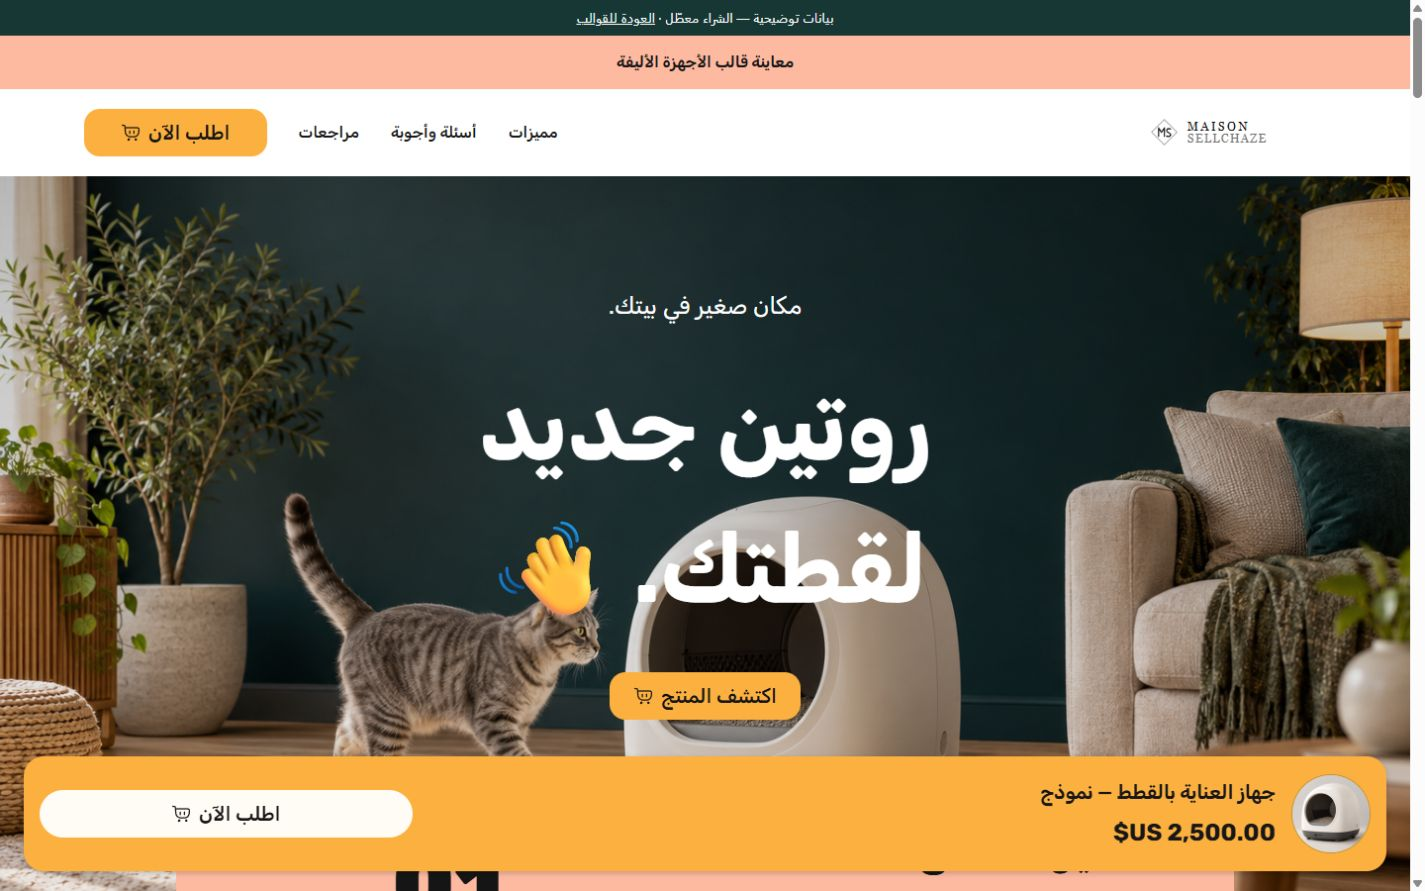
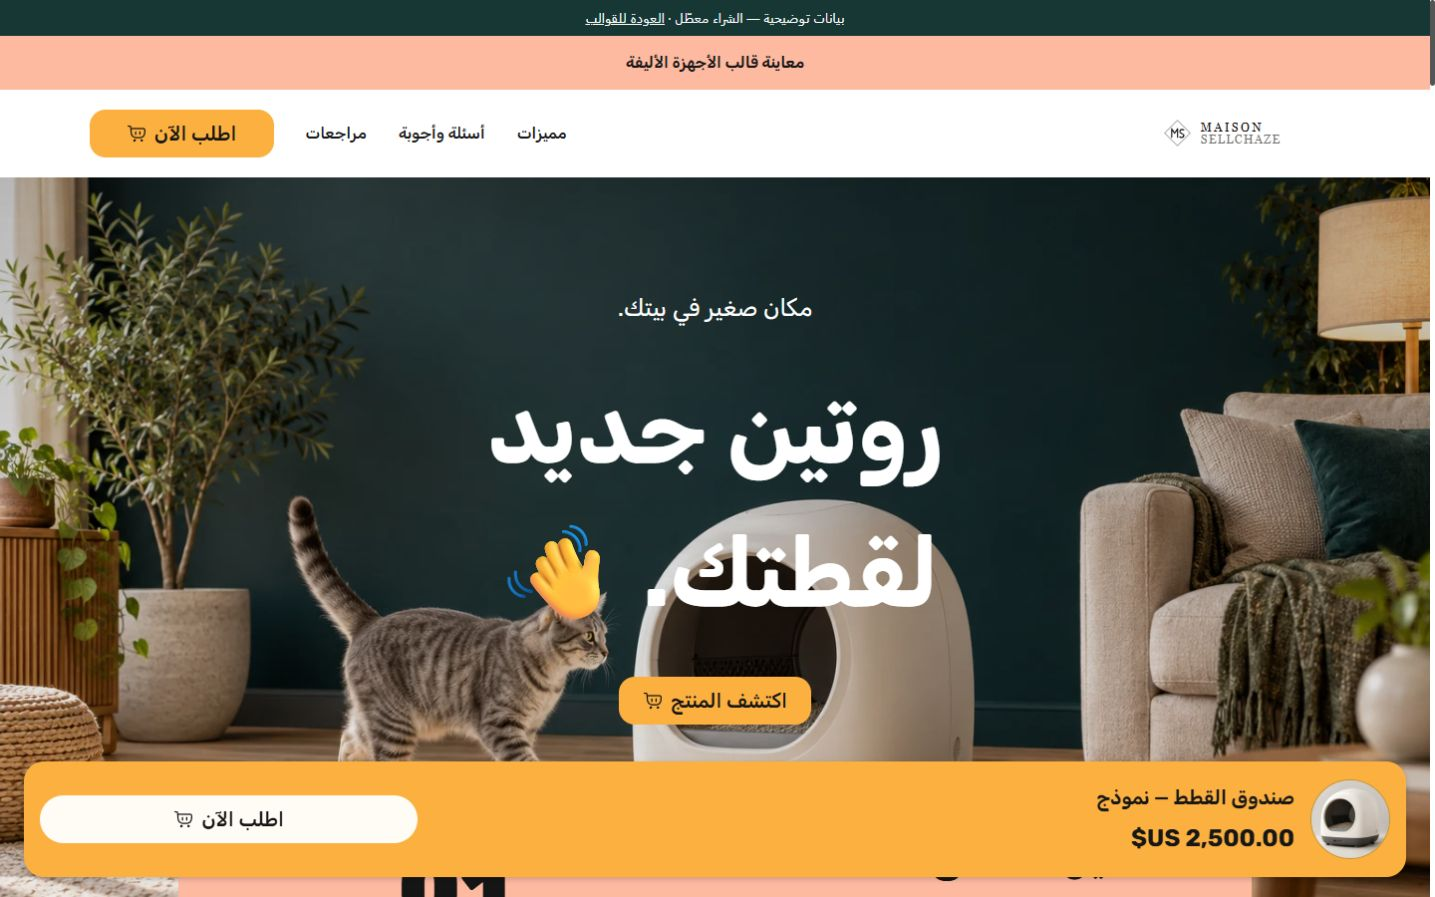
Match Litter Robot mobile navigation and optimize campaign paints

diff --git a/src/apps/storefront/funnels/litter-robot.css b/src/apps/storefront/funnels/litter-robot.css
@@ -1,5 +1,7 @@
 @font-face{font-family:Rubik;src:url('/fonts/rubik/Rubik-Variable.ttf') format('truetype');font-weight:300 900;font-display:swap}
 @font-face{font-family:'DM Sans';src:url('/fonts/dmsans/dmsans-variable.woff2') format('woff2');font-weight:100 1000;font-display:swap}
+html:has(.lr-root)::-webkit-scrollbar{width:5px}
+html:has(.lr-root)::-webkit-scrollbar-thumb{background:#555;border-radius:8px}
 .lr-root{--lr-orange:#fbb040;--color-primary:#fbb040;--color-on-primary:#161616;--color-text:#171717;--color-surface:#fff;--color-border:#d8d8d8;--bg:#fff;--text:#171717;--surface:#fff;--surface-2:#f7f7f7;--border:#d8d8d8;background:#fff;color:#171717;font:16px/1.5 'DM Sans',system-ui,sans-serif;padding-bottom:144px;overflow:clip}
 .lr-root *{box-sizing:border-box;min-width:0}
 .lr-root[dir=rtl]{--font-arabic:Rubik,sans-serif;font-family:Rubik,sans-serif}
@@ -52,7 +54,12 @@
 .lr-technical{display:grid;grid-template-columns:1fr 1fr;gap:48px;align-items:center}.lr-technical>img{width:100%;aspect-ratio:1.25;object-fit:cover;border-radius:32px}.lr-technical h2{margin-bottom:32px}.lr-technical-features{display:grid;grid-template-columns:repeat(3,minmax(0,1fr));gap:24px}.lr-technical-features article{text-align:center}.lr-technical-features img{width:64px;height:64px;margin:0 auto 16px;object-fit:cover;border-radius:50%}.lr-technical-features h3{font-size:16px;line-height:1.4}.lr-technical-features p{margin-top:8px;font-size:13px}
 .lr-editorial{position:relative;isolation:isolate;min-height:600px;border-radius:32px;overflow:hidden;background:#f0ede7;display:flex;align-items:flex-end;text-align:center;padding:48px;color:white}.lr-editorial>img{position:absolute;inset:0;width:100%;height:100%;object-fit:cover;z-index:-2}.lr-editorial::after{content:'';position:absolute;inset:0;z-index:-1;background:linear-gradient(transparent 20%,#000b)}.lr-editorial>div{max-width:800px;margin-inline:auto}.lr-editorial h2{font-size:28px;font-weight:600}.lr-editorial p{font-size:20px;margin-top:16px;line-height:1.5}.lr-editorial .lr-button{margin-top:24px}
 .lr-section[data-litter-section='litter-editorial']{padding-block:12px}
-.lr-feature-rows{display:flex;flex-direction:column;gap:0}.lr-feature-rows article{display:flex;align-items:center;background:#f4f4f4;min-height:108px;border-bottom:1px solid #fff}.lr-feature-rows article:nth-child(even){flex-direction:row-reverse;background:#fff}.lr-feature-rows img{width:180px;align-self:stretch;object-fit:cover}.lr-feature-rows article>div{flex:1;padding:24px;text-align:center}.lr-feature-rows h3{font-size:32px;font-weight:600}.lr-feature-rows p{margin-top:8px}
+.lr-feature-rows{display:grid;grid-template-columns:1fr 2fr;gap:0;align-items:center}
+.lr-feature-rows-image{width:60%;aspect-ratio:251.2/195;object-fit:contain;justify-self:center}
+.lr-feature-rows>div{display:flex;flex-direction:column;justify-content:space-around;gap:16px;min-height:325px;padding:16px 24px 24px;text-align:end}
+.lr-feature-rows article{display:flex;flex-direction:column;gap:8px}
+.lr-feature-rows h3{font-size:32px;line-height:40px;font-weight:500}
+.lr-feature-rows p{font:400 16px/28px Rubik,sans-serif}
 .lr-quote{background:#e2e2e2;text-align:center;padding:48px 24px}.lr-quote .lr-wrap{max-width:1100px}.lr-quote-images{display:flex;justify-content:center;gap:16px;margin-bottom:32px}.lr-quote-images img{width:96px;height:96px;border-radius:50%;object-fit:cover}.lr-quote blockquote{font:500 20px/1.7 Rubik,sans-serif}.lr-quote figcaption{margin-top:24px;font-size:14px}
 .lr-section:has(>.lr-quote),.lr-section:has(>.lr-marquee){padding-block:0}
 .lr-marquee{padding-block:24px;overflow:hidden;background:#fff}.lr-marquee>div{display:flex;width:max-content;animation:lr-marquee 35s linear infinite}.lr-marquee p{display:flex;flex-shrink:0;gap:48px;padding-inline:24px;font:600 24px/1.5 Rubik,sans-serif;white-space:nowrap}.lr-marquee span::after{content:'✦';margin-inline-start:48px}
@@ -61,7 +68,18 @@
 .lr-faq{max-width:1000px;padding-block:48px}.lr-faq h2{text-align:center;font:500 40px/1.2 Rubik,sans-serif;margin-bottom:48px}.lr-faq .lr-questions article{border:1px solid #d7d7d7;margin-bottom:16px;border-radius:12px;overflow:hidden}.lr-faq .lr-questions button{padding:20px 24px}.lr-faq .lr-questions article>div p{padding:0 24px 24px}
 .lr-footer{background:var(--lr-orange);padding:64px 24px;text-align:center}.lr-footer .lr-wrap{display:flex;flex-direction:column;align-items:center;gap:32px}.lr-footer nav{display:flex;justify-content:center;flex-wrap:wrap;gap:24px}.lr-footer address{display:flex;flex-direction:column;gap:8px;font-style:normal}.lr-footer address:empty{display:none}.lr-footer a:hover{text-decoration:underline}.lr-footer p{font-size:14px}.lr-footer .sf-payment-marks{justify-content:center}
 .lr-dock{position:fixed;z-index:45;bottom:20px;inset-inline:24px;min-height:116px;background:var(--lr-orange);color:#171717;display:flex;align-items:center;justify-content:space-between;gap:24px;padding:16px;border-radius:20px;box-shadow:0 2px 6px #0003;font-family:Rubik,sans-serif}.lr-dock>div{display:flex;align-items:center;gap:16px}.lr-dock img{width:80px;height:80px;object-fit:cover;border:1px solid #bd943b;border-radius:50%}.lr-dock>div>div{display:flex;flex-direction:column;gap:8px}.lr-dock strong{font-size:20px;font-weight:600}.lr-dock span{display:flex;align-items:center;gap:24px;font-size:24px;font-weight:700;flex-wrap:wrap}.lr-dock del{font-size:18px;font-weight:400}.lr-dock>.lr-button{background:#fffbf5;min-width:28%;border-radius:48px}
-.lr-menu-dialog{padding:0;border:0;background:transparent;color:#171717;max-height:100dvh;height:100dvh;width:250px;max-width:calc(100vw - 32px);margin:0;margin-inline-start:auto;position:fixed;inset:0;font:500 16px/1.5 Rubik,sans-serif}.lr-menu-dialog::backdrop{background:#0007}.lr-menu-dialog>div{height:100%;background:#fff;padding:24px;overflow-y:auto}.lr-menu-dialog button{display:grid;place-items:center;margin-inline-start:auto;width:40px;height:40px;border:0;background:none;color:inherit;cursor:pointer}.lr-menu-dialog button svg{width:24px;height:24px}.lr-menu-dialog nav{display:flex;flex-direction:column;gap:24px;margin-top:24px}.lr-menu-dialog nav a:not(.lr-button){color:inherit;text-decoration:none}.lr-menu-dialog .lr-button{min-width:0;width:100%;font-size:16px;padding:12px}.lr-menu-dialog[dir=rtl]{margin-inline-start:0;margin-inline-end:auto}
+.lr-menu-dialog{padding:0;border:0;background:transparent;color:#000;max-height:100dvh;height:100dvh;width:auto;max-width:none;margin:0;position:fixed;inset:0;font:500 16px/24px Rubik,sans-serif;overflow:visible;transition:display .3s allow-discrete,overlay .3s allow-discrete}
+.lr-menu-panel{position:absolute;inset:0 0 0 auto;width:250px;max-width:calc(100vw - 32px);transform:translateX(100%);transition:transform .3s ease-in-out}
+.lr-menu-dialog[open] .lr-menu-panel{transform:none}
+@starting-style{.lr-menu-dialog[open] .lr-menu-panel{transform:translateX(100%)}}
+.lr-menu-dialog::backdrop{background:transparent}
+.lr-menu-panel{height:100%;background:rgba(255,133,91,.98);padding:86px 0;overflow-y:auto}
+.lr-menu-dialog button{position:absolute;top:20px;left:20px;display:grid;place-items:center;width:40px;height:40px;padding:8px;border:0;border-radius:50%;background:#ff5252;color:white;cursor:pointer}
+.lr-menu-dialog button svg{width:24px;height:24px}
+.lr-menu-dialog nav{display:flex;flex-direction:column;align-items:center;gap:27px;margin:0}
+.lr-menu-dialog nav>a{padding:10px 4px 8px;color:inherit;text-decoration:none}
+.lr-menu-dialog nav>span{display:block;text-align:center;width:100%;margin-top:-3px}
+.lr-menu-dialog nav .lr-button{min-width:176px;max-width:calc(100% - 32px);min-height:48px;width:max-content;font-size:20px;line-height:24px;padding:12px 10px}
 .lr-demo-note{position:relative;z-index:46;background:#173734;color:#fff;padding:8px 16px;text-align:center;font:13px/1.5 system-ui,sans-serif}.lr-demo-note a{text-decoration:underline}
 .lr-motion [data-lr-reveal]{opacity:0;transform:translateY(28px);transition:opacity .7s ease,transform .7s ease}.lr-motion [data-lr-reveal].lr-visible{opacity:1;transform:none}
 @media(min-width:1600px){.lr-wrap{max-width:1536px}.lr-hero{height:calc(85svh - 0px);min-height:765px}}
@@ -71,3 +89,7 @@
 .lr-purchase{padding-top:0}
 .lr-root .sf-funnel-checkout{font-family:'DM Sans',sans-serif}
 .lr-root .sf-funnel-checkout :is(label,input,select,textarea,button){font-family:inherit}
+@media(max-width:991px){.lr-feature-rows{grid-template-columns:1fr}.lr-feature-rows>div{min-height:0;gap:0}.lr-feature-rows article,.lr-feature-rows article:nth-child(even){display:flex;flex-direction:column;padding:0;background:none;min-height:0}.lr-feature-rows .lr-feature-rows-image{width:60%;height:auto;aspect-ratio:251.2/195;object-fit:contain;align-self:center}.lr-feature-rows h3{font-size:25px;line-height:31.25px}.lr-feature-rows p{line-height:28px}}
+.lr-dock>div{flex:1}.lr-dock>.lr-button{flex-shrink:0}.lr-dock strong{white-space:nowrap;overflow:hidden;text-overflow:ellipsis}
+@media(max-width:991px){.lr-dock{inset-inline:2.5%;bottom:6px;min-height:80px;gap:0;padding:12px}.lr-dock>div{gap:8px;flex:0 1 auto;min-width:min-content}.lr-dock>div>div{min-width:auto}.lr-dock img{display:block;width:55px;height:55px;padding:5px;flex-shrink:1}.lr-dock strong{font-size:14px;line-height:16.8px;white-space:normal}.lr-dock span{font-size:14px;line-height:16.8px;white-space:nowrap}.lr-dock>.lr-button{flex:0 1 auto;min-width:0;max-width:50%;min-height:44px;font-size:20px;line-height:24px;padding:10px 15px}}
+@media(prefers-reduced-motion:reduce){.lr-menu-dialog,.lr-menu-panel{transition:none}}

diff --git a/src/apps/storefront/funnels/LitterRobotFunnel.tsx b/src/apps/storefront/funnels/LitterRobotFunnel.tsx
@@ -90,7 +90,7 @@ export function LitterComposition({ sections, productSlug, locale: pageLocale, p
     element.querySelectorAll('[data-lr-reveal]').forEach(node => observer.observe(node));
     return () => { observer.disconnect(); element.classList.remove('lr-motion'); };
   }, [sections, customizer.active]);
-  const order = (label?: unknown): ReactElement => <a className="lr-button" href="#funnel-checkout">{text(label) || (ar ? 'اطلب الآن' : 'Order now')}<HugeiconsIcon icon={ShoppingCart01Icon} size={20} aria-hidden="true" /></a>;
+  const order = (label?: unknown, close = false): ReactElement => <a className="lr-button" href="#funnel-checkout" onClick={close ? closeMenu : undefined}>{text(label) || (ar ? 'اطلب الآن' : 'Order now')}<HugeiconsIcon icon={ShoppingCart01Icon} size={20} aria-hidden="true" /></a>;
   const navigationLinks = (close = false): ReactNode => <>{[['feature-cards', ar ? 'مميزات' : 'Features'], ['faq', ar ? 'أسئلة وأجوبة' : 'Questions & answers'], ['reviews', ar ? 'مراجعات' : 'Reviews']].filter(([type]) => first(type!) >= 0).map(([type, label]) => <a href={`#lr-section-${first(type!)}`} key={type} onClick={close ? closeMenu : undefined}>{label}</a>)}<span onClick={close ? closeMenu : undefined}>{order()}</span></>;
   const image = (s: Values, cls = ''): ReactElement | null => campaignUrl(s['image']) ? <img className={cls} src={campaignUrl(s['image'])} alt={text(s['image_alt'])} loading="lazy" /> : null;
   const cards = (s: Values, cls: string): ReactElement => <div className={cls}>{rows(s['items']).slice(0, 8).map((item, i) => <article key={i} data-lr-reveal>{image(item)}<div><h3>{text(item['heading'])}</h3><p>{text(item['text'])}</p></div></article>)}</div>;
@@ -105,7 +105,7 @@ export function LitterComposition({ sections, productSlug, locale: pageLocale, p
       case 'litter-feature-orbit': return <div className="lr-wrap lr-orbit">{image(s, 'lr-orbit-image')}{cards({ ...s, items: rows(s['items']).slice(0, 4) }, 'lr-orbit-features')}</div>;
       case 'litter-technical': { const supplied = rows(s['items']); const specs = supplied.length ? supplied : specificationRows(product).map(item => ({ heading: item.label, text: item.value })); return <div className="lr-wrap lr-technical">{image(s)}<div><h2>{text(s['heading'])}</h2>{cards({ items: specs }, 'lr-technical-features')}</div></div>; }
       case 'litter-editorial': return <div className="lr-wrap"><div className="lr-editorial">{image(s)}<div data-lr-reveal><h2>{text(s['heading'])}</h2><p>{text(s['text'])}</p>{text(s['cta_label']) ? order(s['cta_label']) : null}</div></div></div>;
-      case 'litter-feature-rows': return <div className="lr-wrap">{cards(s, 'lr-feature-rows')}</div>;
+      case 'litter-feature-rows': return <div className="lr-wrap lr-feature-rows">{image(campaignUrl(s['image']) ? s : rows(s['items'])[0] ?? {}, 'lr-feature-rows-image')}<div>{rows(s['items']).slice(0, 3).map((item, i) => <article key={i} data-lr-reveal><h3>{text(item['heading'])}</h3><p>{text(item['text'])}</p></article>)}</div></div>;
       case 'litter-quote': return text(s['text']) ? <figure className="lr-quote"><div className="lr-wrap"><div className="lr-quote-images">{rows(s['images']).slice(0, 4).map((item, i) => <span key={i}>{image(item)}</span>)}</div><blockquote>{text(s['text'])}</blockquote>{text(s['attribution']) ? <figcaption>{text(s['attribution'])}</figcaption> : null}</div></figure> : null;
       case 'litter-marquee': return rows(s['items']).length ? <div className="lr-marquee"><div>{[false, true].map(repeat => <p key={String(repeat)} aria-hidden={repeat || undefined}>{rows(s['items']).map((item, i) => <span key={i}>{text(item['label'])}</span>)}</p>)}</div></div> : null;
       case 'litter-reviews': return <Reviews slug={productSlug} heading={text(s['heading'])} ar={ar} displayOnly={displayOnly} />;
@@ -113,11 +113,12 @@ export function LitterComposition({ sections, productSlug, locale: pageLocale, p
       default: return null;
     }
   };
+  const dock = (inMenu = false): ReactElement | null => product ? <aside className={`lr-dock ${inMenu ? 'lr-menu-dock' : 'lr-page-dock'}`} aria-label={ar ? 'طلب المنتج' : 'Order this product'}><div>{campaignUrl(presentation.image) ? <img src={presentation.image!} alt="" /> : null}<div><strong title={product.name}>{product.name}</strong><span>{formatMoney(presentation.unitPrice, store.baseCurrency, locale)}{presentation.comparePrice && presentation.comparePrice > presentation.unitPrice ? <del>{formatMoney(presentation.comparePrice, store.baseCurrency, locale)}</del> : null}</span></div></div>{order(sections[first('purchase')]?.settings?.['cta_label'], inMenu)}</aside> : null;
   return <div ref={root} className="lr-root" id="lr-top" dir={ar ? 'rtl' : 'ltr'} lang={ar ? 'ar' : 'en'}>
     {sections.map((section, i) => <section id={`lr-section-${i}`} key={section.id ?? i} data-section-id={section.id} data-litter-section={section.type} className={customizer.selectedId === section.id ? 'lr-section lr-section-selected' : 'lr-section'}>{render(section, i)}</section>)}
     {first('purchase') < 0 ? <div className="lr-wrap lr-purchase-panel">{checkout}</div> : null}
     <footer className="lr-footer"><div className="lr-wrap"><a className="lr-brand" href="#lr-top">{store.logoUrl ? <img src={store.logoUrl} alt={store.name} /> : store.name}</a><nav aria-label={ar ? 'روابط المتجر' : 'Store links'}>{navigation.footer.flatMap(group => group.children?.length ? group.children : [group]).filter(link => !!link.url).map(link => <a href={link.url ?? undefined} key={link.url}>{link.label}</a>)}</nav><address>{store.merchantInformation?.address ? <span>{store.merchantInformation.address}</span> : null}{store.email ? <a href={`mailto:${store.email}`}>{store.email}</a> : null}{store.phone ? <a href={`tel:${store.phone.replace(/[^+\d]/g, '')}`} dir="ltr">{store.phone}</a> : null}</address>{store.identity?.social?.length ? <nav aria-label={ar ? 'روابط التواصل الاجتماعي' : 'Social links'}>{store.identity.social.map(link => <a href={link.url} key={link.url} target="_blank" rel="noopener noreferrer">{link.label}</a>)}</nav> : null}<StorePaymentMarks label={ar ? 'وسائل الدفع' : 'Payment methods'} /><p>© {new Date().getFullYear()} {store.name}</p></div></footer>
-    <dialog ref={menuDialog} id={menuId} className="lr-menu-dialog" aria-label={ar ? 'أقسام الصفحة' : 'Page sections'} onClose={() => setMenu(false)} onClick={event => { if (event.target === event.currentTarget) closeMenu(); }}><div><button type="button" aria-label={ar ? 'إغلاق القائمة' : 'Close page menu'} onClick={closeMenu}><IconClose /></button><nav>{navigationLinks(true)}</nav></div></dialog>
-    {product ? <aside className="lr-dock" aria-label={ar ? 'طلب المنتج' : 'Order this product'}><div>{campaignUrl(presentation.image) ? <img src={presentation.image!} alt="" /> : null}<div><strong>{product.name}</strong><span>{formatMoney(presentation.unitPrice, store.baseCurrency, locale)}{presentation.comparePrice && presentation.comparePrice > presentation.unitPrice ? <del>{formatMoney(presentation.comparePrice, store.baseCurrency, locale)}</del> : null}</span></div></div>{order(sections[first('purchase')]?.settings?.['cta_label'])}</aside> : null}
+    {dock()}
+    <dialog ref={menuDialog} id={menuId} className="lr-menu-dialog" aria-label={ar ? 'أقسام الصفحة' : 'Page sections'} onClose={() => setMenu(false)} onClick={event => { if (event.target === event.currentTarget) closeMenu(); }}><div className="lr-menu-panel"><button type="button" aria-label={ar ? 'إغلاق القائمة' : 'Close page menu'} onClick={closeMenu}><IconClose /></button><nav>{navigationLinks(true)}</nav></div>{dock(true)}</dialog>
   </div>;
 }

diff --git a/src/apps/storefront/funnels/litter-preview.ts b/src/apps/storefront/funnels/litter-preview.ts
@@ -4,8 +4,8 @@ import type { SectionInstance } from '../theme-engine/rendering';
 /** Sample catalog content cannot initialize checkout or reach a merchant product. */
 export function litterPreview(locale: 'ar' | 'en'): { product: ApiProduct; sections: SectionInstance[] } {
   const ar = locale === 'ar'; const tr = (a: string, e: string): string => ar ? a : e;
-  const hero = '/media/funnel-campaigns/litter-robot-hero-v1.png'; const image = '/media/funnel-campaigns/litter-robot-detail-v1.png';
-  const product: ApiProduct = { id: -3, name: tr('جهاز العناية بالقطط — نموذج', 'Cat care appliance — demo'), slug: 'display-only-litter-robot', price: 2500, image_url: image, images: [image, hero], short_description: tr('صورة ومحتوى توضيحيان لمعاينة قالب الأجهزة الأليفة.', 'Sample imagery and content for previewing the pet-appliance campaign.') };
+  const hero = '/media/funnel-campaigns/litter-robot-hero-v1.webp'; const image = '/media/funnel-campaigns/litter-robot-detail-v1.webp';
+  const product: ApiProduct = { id: -3, name: tr('صندوق القطط — نموذج', 'Cat care — demo'), slug: 'display-only-litter-robot', price: 2500, image_url: image, images: [image, hero], short_description: tr('صورة ومحتوى توضيحيان لمعاينة قالب الأجهزة الأليفة.', 'Sample imagery and content for previewing the pet-appliance campaign.') };
   let id = 0;
   const row = (type: string, settings: Record<string, unknown>): SectionInstance => ({ id: `litter-demo-${id++}`, type: `litter-${type}`, settings });
   const card = (heading: string, text: string): Record<string, string> => ({ heading, text, image, image_alt: product.name });
@@ -26,7 +26,7 @@ export function litterPreview(locale: 'ar' | 'en'): { product: ApiProduct; secti
     row('feature-orbit', { image, image_alt: product.name, items: [card(tr('التصميم', 'Design'), tr('تفاصيل التصميم.', 'Design details.')), card(tr('الاستخدام', 'Use'), tr('معلومات الاستخدام.', 'Usage information.')), card(tr('العناية', 'Care'), tr('تعليمات العناية.', 'Care instructions.')), card(tr('الاختيارات', 'Options'), tr('خيارات المنتج.', 'Product options.'))] }),
     row('technical', { heading: tr('المواصفات الفنية', 'Technical specifications'), image: hero, image_alt: product.name, items: ['المعلومات|Information', 'المقاسات|Dimensions', 'المواد|Materials', 'التجهيز|Setup', 'العناية|Care', 'محتويات العبوة|In the box'].map(label => card(label.split('|')[ar ? 0 : 1]!, tr('أضف مواصفات منتجك.', 'Add your product specifications.'))) }),
     ...[tr('مكان لكل تفصيلة.', 'A place for every detail.'), tr('قريب من روتينك.', 'Part of your routine.'), tr('اكتشف الزاوية الأخرى.', 'Discover another angle.'), tr('اختيار يناسب يومك.', 'A choice for your everyday.')].map((heading, index) => row('editorial', { heading, text: tr('مساحة لصور منتجك ومعلوماته الفعلية. هذا محتوى توضيحي قابل للاستبدال.', 'A place for actual product photographs and information. This sample content can be replaced.'), image: index % 2 ? image : hero, image_alt: product.name })),
-    row('feature-rows', { items: [card(tr('مساحة لقصتك', 'A place for your story'), tr('أضف تفاصيل تهم عملاءك.', 'Add details that matter to your customers.')), card(tr('صورة أخرى', 'Another view'), tr('اعرض صورًا واضحة للمنتج.', 'Show clear product photographs.')), card(tr('المعلومات أولًا', 'Information first'), tr('راجع مواصفات المنتج قبل الطلب.', 'Review product details before ordering.'))] }),
+    row('feature-rows', { image, image_alt: product.name, items: [card(tr('مساحة لقصتك', 'A place for your story'), tr('أضف تفاصيل تهم عملاءك.', 'Add details that matter to your customers.')), card(tr('صورة أخرى', 'Another view'), tr('اعرض صورًا واضحة للمنتج.', 'Show clear product photographs.')), card(tr('المعلومات أولًا', 'Information first'), tr('راجع مواصفات المنتج قبل الطلب.', 'Review product details before ordering.'))].map(item => ({ heading: item['heading'], text: item['text'] })) }),
     row('quote', { text: tr('التفاصيل الصغيرة تصنع مكانًا مميزًا في يومنا.', 'Little details make a special place in our day.'), attribution: tr('رسالة توضيحية من المتجر', 'Sample store message'), images: [{ image: hero, image_alt: product.name }, { image, image_alt: product.name }] }),
     row('marquee', { items: [tr('لبيتك', 'For your home'), tr('ليومك', 'For your everyday'), tr('لقطتك', 'For your cat')].map(label => ({ label })) }),
     row('reviews', { heading: tr('آراء العملاء', 'What customers say') }),

diff --git a/tests/browser/storefront-accessibility.spec.ts b/tests/browser/storefront-accessibility.spec.ts
@@ -26,6 +26,11 @@ for (const locale of ['en', 'ar'] as const) {
         const toggle = page.getByRole('button', { name: locale === 'ar' ? 'قائمة الصفحة' : 'Page menu', exact: true });
         await toggle.click();
         await expect(page.getByRole('dialog')).toBeVisible();
+        const menu = await page.locator('.lr-menu-panel').boundingBox();
+        expect(menu?.width).toBe(250);
+        expect(menu?.x).toBeGreaterThan(0);
+        await expect(page.locator('.lr-menu-panel')).toHaveCSS('background-color', 'rgba(255, 133, 91, 0.98)');
+        await expect(page.locator('.lr-menu-dock')).toBeVisible();
         await page.keyboard.press('Escape');
         await expect(toggle).toBeFocused();
         await toggle.click();

diff --git a/src/apps/storefront/funnels/litter-preview.test.tsx b/src/apps/storefront/funnels/litter-preview.test.tsx
@@ -24,6 +24,8 @@ it('renders an independent complete composition without commerce hooks or fabric
   expect(doc.querySelectorAll('.lr-orbit-features article')).toHaveLength(4);
   expect(doc.querySelectorAll('.lr-technical-features article')).toHaveLength(6);
   expect(doc.querySelectorAll('.lr-specifications dl')).toHaveLength(2);
+  expect(doc.querySelectorAll('.lr-feature-rows-image')).toHaveLength(1);
+  expect(doc.querySelectorAll('.lr-feature-rows article')).toHaveLength(3);
   expect(doc.querySelector('form')).toBeNull();
   expect(doc.querySelector('fieldset')?.disabled).toBe(true);
   expect(doc.querySelectorAll('#funnel-checkout')).toHaveLength(1);
